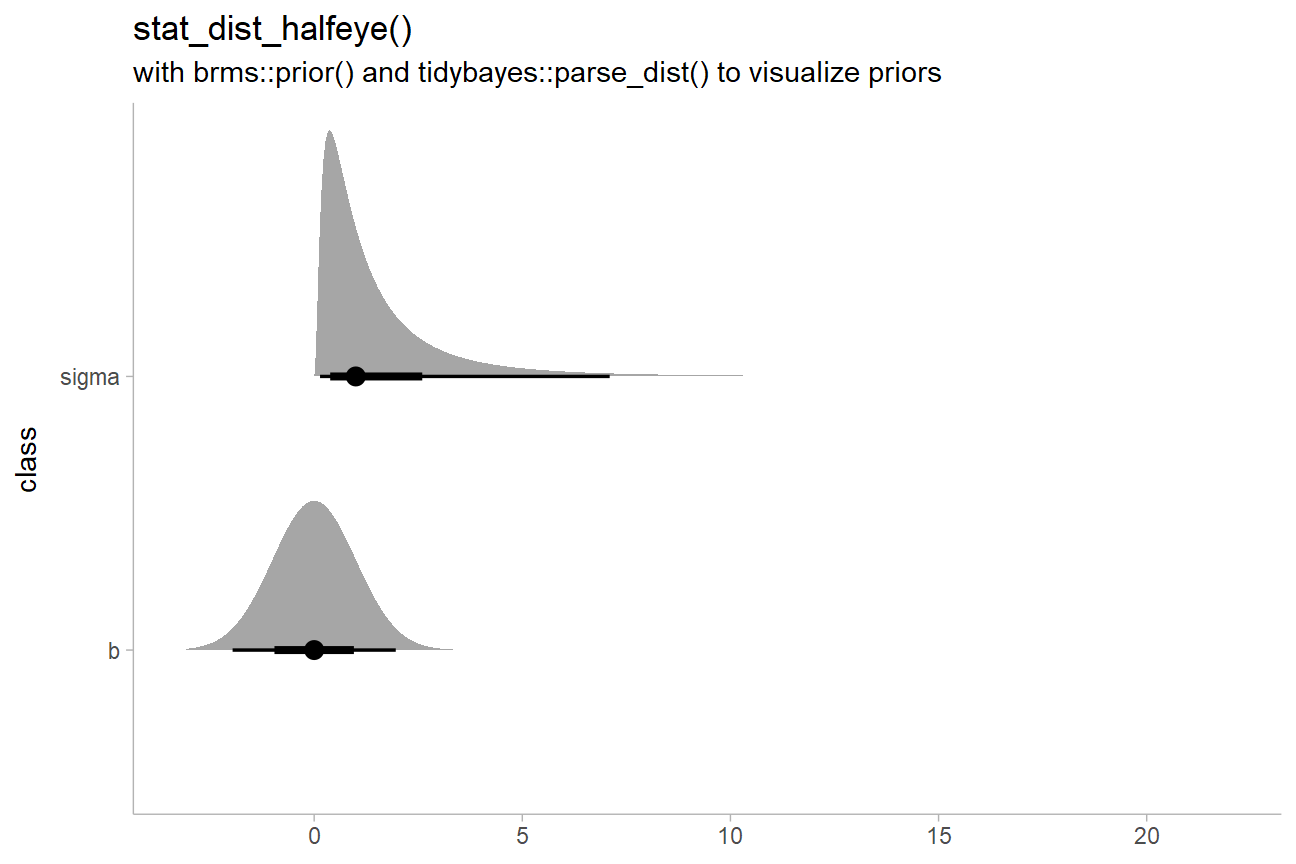
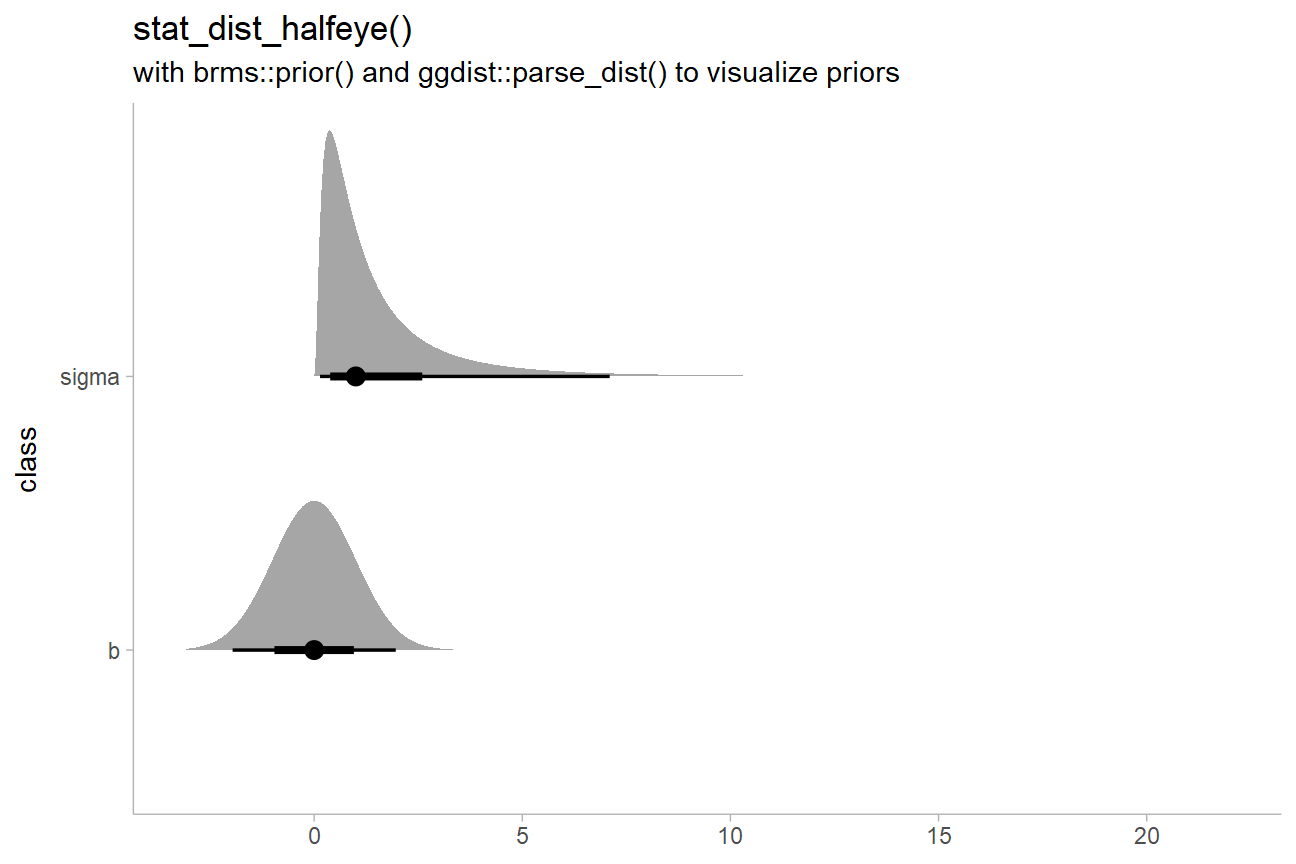
docs rebuild

Changed region(s): [[0.3086, 0.0625, 0.7407, 0.0938]]

diff --git a/docs/reference/point_interval.html b/docs/reference/point_interval.html
@@ -197,8 +197,6 @@ multiple groups in a grouped data frame).</p>
   <span class='no'>.prob</span>
 )
 
-<span class='fu'>point_intervalh</span>(<span class='no'>...</span>)
-
 <span class='fu'>qi</span>(<span class='no'>x</span>, <span class='kw'>.width</span> <span class='kw'>=</span> <span class='fl'>0.95</span>, <span class='no'>.prob</span>, <span class='kw'>na.rm</span> <span class='kw'>=</span> <span class='fl'>FALSE</span>)
 
 <span class='fu'>hdi</span>(<span class='no'>x</span>, <span class='kw'>.width</span> <span class='kw'>=</span> <span class='fl'>0.95</span>, <span class='no'>.prob</span>, <span class='kw'>na.rm</span> <span class='kw'>=</span> <span class='fl'>FALSE</span>)
@@ -209,39 +207,21 @@ multiple groups in a grouped data frame).</p>
 
 <span class='fu'>mean_qi</span>(<span class='no'>.data</span>, <span class='no'>...</span>, <span class='kw'>.width</span> <span class='kw'>=</span> <span class='fl'>0.95</span>)
 
-<span class='fu'>mean_qih</span>(<span class='no'>...</span>)
-
 <span class='fu'>median_qi</span>(<span class='no'>.data</span>, <span class='no'>...</span>, <span class='kw'>.width</span> <span class='kw'>=</span> <span class='fl'>0.95</span>)
-
-<span class='fu'>median_qih</span>(<span class='no'>...</span>)
 
 <span class='fu'>mode_qi</span>(<span class='no'>.data</span>, <span class='no'>...</span>, <span class='kw'>.width</span> <span class='kw'>=</span> <span class='fl'>0.95</span>)
 
-<span class='fu'>mode_qih</span>(<span class='no'>...</span>)
-
 <span class='fu'>mean_hdi</span>(<span class='no'>.data</span>, <span class='no'>...</span>, <span class='kw'>.width</span> <span class='kw'>=</span> <span class='fl'>0.95</span>)
-
-<span class='fu'>mean_hdih</span>(<span class='no'>...</span>)
 
 <span class='fu'>median_hdi</span>(<span class='no'>.data</span>, <span class='no'>...</span>, <span class='kw'>.width</span> <span class='kw'>=</span> <span class='fl'>0.95</span>)
 
-<span class='fu'>median_hdih</span>(<span class='no'>...</span>)
-
 <span class='fu'>mode_hdi</span>(<span class='no'>.data</span>, <span class='no'>...</span>, <span class='kw'>.width</span> <span class='kw'>=</span> <span class='fl'>0.95</span>)
-
-<span class='fu'>mode_hdih</span>(<span class='no'>...</span>)
 
 <span class='fu'>mean_hdci</span>(<span class='no'>.data</span>, <span class='no'>...</span>, <span class='kw'>.width</span> <span class='kw'>=</span> <span class='fl'>0.95</span>)
 
-<span class='fu'>mean_hdcih</span>(<span class='no'>...</span>)
-
 <span class='fu'>median_hdci</span>(<span class='no'>.data</span>, <span class='no'>...</span>, <span class='kw'>.width</span> <span class='kw'>=</span> <span class='fl'>0.95</span>)
 
-<span class='fu'>median_hdcih</span>(<span class='no'>...</span>)
-
-<span class='fu'>mode_hdci</span>(<span class='no'>.data</span>, <span class='no'>...</span>, <span class='kw'>.width</span> <span class='kw'>=</span> <span class='fl'>0.95</span>)
-
-<span class='fu'>mode_hdcih</span>(<span class='no'>...</span>)</pre>
+<span class='fu'>mode_hdci</span>(<span class='no'>.data</span>, <span class='no'>...</span>, <span class='kw'>.width</span> <span class='kw'>=</span> <span class='fl'>0.95</span>)</pre>
 
     <h2 class="hasAnchor" id="arguments"><a class="anchor" href="#arguments"></a>Arguments</h2>
     <table class="ref-arguments">
@@ -333,15 +313,6 @@ corresponding to the interval. This behavior allows <code>point_interval</code>
 and its derived functions (like <code>median_qi</code>, <code>mean_qi</code>, <code>mode_hdi</code>, etc)
 to be easily used to plot intervals in ggplot stats using methods like
 <code><a href='stat_sample_slabinterval.html'>stat_eye()</a></code>, <code><a href='stat_sample_slabinterval.html'>stat_halfeye()</a></code>, or <code><a href='https://ggplot2.tidyverse.org/reference/stat_summary.html'>stat_summary()</a></code>.</p>
-<p>The functions ending in <code>h</code> (e.g., <code>point_intervalh</code>, <code>median_qih</code>)
-behave identically to the function without the h, except that when passed a vector,
-they return a data frame with <code>x</code>/<code>xmin</code>/<code>xmax</code> instead of
-<code>y</code>/<code>ymin</code>/<code>ymax</code>. This allows them to be used as values of the
-<code>fun.data = </code> argument of <code>stat_summaryh</code>. <strong>Note:</strong> these
-functions are not necessary if you use the <code>point_interval</code>
-argument of <code>stat</code>s and <code>geom</code>s in the <code>tidybayes</code> package (e.g.
-<code><a href='stat_pointinterval.html'>stat_pointinterval()</a></code>, <code><a href='stat_sample_slabinterval.html'>stat_halfeye()</a></code>, etc), as
-these automatically adjust the function output to match their required aesthetics.</p>
 <p><code>median_qi</code>, <code>mode_hdi</code>, etc are short forms for
 <code>point_interval(..., .point = median, .interval = qi)</code>, etc.</p>
 <p><code>qi</code> yields the quantile interval (also known as the percentile interval or

diff --git a/docs/reference/index.html b/docs/reference/index.html
@@ -190,7 +190,7 @@
       <tr>
         
         <td>
-          <p><code><a href="point_interval.html">point_interval()</a></code> <code><a href="point_interval.html">point_intervalh()</a></code> <code><a href="point_interval.html">qi()</a></code> <code><a href="point_interval.html">hdi()</a></code> <code><a href="point_interval.html">Mode()</a></code> <code><a href="point_interval.html">hdci()</a></code> <code><a href="point_interval.html">mean_qi()</a></code> <code><a href="point_interval.html">mean_qih()</a></code> <code><a href="point_interval.html">median_qi()</a></code> <code><a href="point_interval.html">median_qih()</a></code> <code><a href="point_interval.html">mode_qi()</a></code> <code><a href="point_interval.html">mode_qih()</a></code> <code><a href="point_interval.html">mean_hdi()</a></code> <code><a href="point_interval.html">mean_hdih()</a></code> <code><a href="point_interval.html">median_hdi()</a></code> <code><a href="point_interval.html">median_hdih()</a></code> <code><a href="point_interval.html">mode_hdi()</a></code> <code><a href="point_interval.html">mode_hdih()</a></code> <code><a href="point_interval.html">mean_hdci()</a></code> <code><a href="point_interval.html">mean_hdcih()</a></code> <code><a href="point_interval.html">median_hdci()</a></code> <code><a href="point_interval.html">median_hdcih()</a></code> <code><a href="point_interval.html">mode_hdci()</a></code> <code><a href="point_interval.html">mode_hdcih()</a></code> </p>
+          <p><code><a href="point_interval.html">point_interval()</a></code> <code><a href="point_interval.html">qi()</a></code> <code><a href="point_interval.html">hdi()</a></code> <code><a href="point_interval.html">Mode()</a></code> <code><a href="point_interval.html">hdci()</a></code> <code><a href="point_interval.html">mean_qi()</a></code> <code><a href="point_interval.html">median_qi()</a></code> <code><a href="point_interval.html">mode_qi()</a></code> <code><a href="point_interval.html">mean_hdi()</a></code> <code><a href="point_interval.html">median_hdi()</a></code> <code><a href="point_interval.html">mode_hdi()</a></code> <code><a href="point_interval.html">mean_hdci()</a></code> <code><a href="point_interval.html">median_hdci()</a></code> <code><a href="point_interval.html">mode_hdci()</a></code> </p>
         </td>
         <td><p>Point and interval summaries for tidy data frames of draws from distributions</p></td>
       </tr>
@@ -333,7 +333,7 @@
       <tr>
         <th colspan="2">
           <h2 id="section-ggplot-scales" class="hasAnchor"><a href="#section-ggplot-scales" class="anchor"></a>GGplot scales</h2>
-          <p class="section-desc"><p>Scales for custom aesthetics used by tidybayes geoms and stats</p></p>
+          <p class="section-desc"><p>Scales for custom aesthetics used by ggdist geoms and stats</p></p>
         </th>
       </tr>
       
@@ -363,9 +363,9 @@
       <tr>
         
         <td>
-          <p><code><a href="theme_ggdist.html">theme_ggdist()</a></code> <code><a href="theme_ggdist.html">facet_title_left_horizontal()</a></code> <code><a href="theme_ggdist.html">facet_title_right_horizontal()</a></code> <code><a href="theme_ggdist.html">axis_titles_bottom_left()</a></code> </p>
+          <p><code><a href="theme_ggdist.html">theme_ggdist()</a></code> <code><a href="theme_ggdist.html">theme_tidybayes()</a></code> <code><a href="theme_ggdist.html">facet_title_left_horizontal()</a></code> <code><a href="theme_ggdist.html">facet_title_right_horizontal()</a></code> <code><a href="theme_ggdist.html">axis_titles_bottom_left()</a></code> </p>
         </td>
-        <td><p>Simple, light ggplot2 theme for ggdist</p></td>
+        <td><p>Simple, light ggplot2 theme for ggdist and tidybayes</p></td>
       </tr>
     </tbody><tbody>
       <tr>

diff --git a/docs/news/index.html b/docs/news/index.html
@@ -156,7 +156,7 @@
 <li>Initial split from tidybayes: ggdist now contains all stats/geoms from tidybayes (except deprecated ones), all support functions for stats/geoms (such as <code><a href="../reference/point_interval.html">point_interval()</a></code>), <code><a href="../articles/slabinterval.html">vignette("slabinterval")</a></code>, and <code><a href="../articles/freq-uncertainty-vis.html">vignette("freq-uncertainty-vis")</a></code>. Tidybayes will retain all other functions, and will re-export all <code>ggdist</code> functions for now.</li>
 <li>All stats and geoms now support automatic orientation determination. Thus, all <code>h</code>-suffix geoms are now deprecated. Those geoms have been left in <code>tidybayes</code> and give a deprecation warning when used; they cannot be used from <code>ggdist</code> directly.</li>
 <li>
-<code><a href="../reference/geom_interval.html">geom_interval()</a></code>, <code><a href="../reference/geom_pointinterval.html">geom_pointinterval()</a></code>, and <code><a href="../reference/geom_lineribbon.html">geom_lineribbon()</a></code> no longer automatically set the <code>ymin</code> and <code>ymax</code> aesthetics if <code>.lower</code> or <code>.upper</code> are present in the data. This allows them to work better with automatic orientation detection (and was a bad feature to have existed in the first place anyway). The deprecated <code><a href="http://mjskay.github.io/tidybayes/reference/geom_interval.html">tidybayes::geom_intervalh()</a></code> and <code><a href="http://mjskay.github.io/tidybayes/reference/geom_pointinterval.html">tidybayes::geom_pointintervalh()</a></code> still automatically set those aesthetics, since they are deprecated anyway (so supporting the old behavior is fine in these functions).</li>
+<code><a href="../reference/geom_interval.html">geom_interval()</a></code>, <code><a href="../reference/geom_pointinterval.html">geom_pointinterval()</a></code>, and <code><a href="../reference/geom_lineribbon.html">geom_lineribbon()</a></code> no longer automatically set the <code>ymin</code> and <code>ymax</code> aesthetics if <code>.lower</code> or <code>.upper</code> are present in the data. This allows them to work better with automatic orientation detection (and was a bad feature to have existed in the first place anyway). The deprecated <code><a href="http://mjskay.github.io/tidybayes/reference/tidybayes-deprecated.html">tidybayes::geom_intervalh()</a></code> and <code><a href="http://mjskay.github.io/tidybayes/reference/tidybayes-deprecated.html">tidybayes::geom_pointintervalh()</a></code> still automatically set those aesthetics, since they are deprecated anyway (so supporting the old behavior is fine in these functions).</li>
 <li>
 <code><a href="../reference/geom_lineribbon.html">geom_lineribbon()</a></code>/<code><a href="../reference/stat_lineribbon.html">stat_lineribbon()</a></code> now supports a <code>step</code> argument for creating stepped lineribbons. H/T to Solomon Kurz for the suggestion.</li>
 <li>

diff --git a/docs/index.html b/docs/index.html
@@ -107,7 +107,7 @@
 <a href="#ggdist-visualizations-of-distributions-and-uncertainty" class="anchor"></a>ggdist: Visualizations of distributions and uncertainty</h1></div>
 
 <p><img src="reference/figures/preview.png" alt="Preview of ggdist plots"></p>
-<p><code>ggdist</code> is an R package that provides a flexible set of <code>ggplot2</code> geoms and stats designed especially for visualizing distributions and uncertainty. It is designed for both frequentist and Bayesian uncertainty visualization, taking the view that uncertainty visualization can be unified through the perspective of distribution visualization: for frequentist models, one visualizes confidence distributions or bootstrap distributions (see <code><a href="articles/freq-uncertainty-vis.html">vignette("freq-uncertainty-vis")</a></code>); for Bayesian models, one visualizes probability distributions (see <code><a href="http://mjskay.github.io/tidybayes/articles/tidybayes.html">vignette("tidybayes", package = "tidybayes")</a></code>).</p>
+<p><a href="http://mjskay.github.io/ggdist/">ggdist</a> is an R package that provides a flexible set of <code>ggplot2</code> geoms and stats designed especially for visualizing distributions and uncertainty. It is designed for both frequentist and Bayesian uncertainty visualization, taking the view that uncertainty visualization can be unified through the perspective of distribution visualization: for frequentist models, one visualizes confidence distributions or bootstrap distributions (see <code><a href="articles/freq-uncertainty-vis.html">vignette("freq-uncertainty-vis")</a></code>); for Bayesian models, one visualizes probability distributions (see the <a href="http://mjskay.github.io/tidybayes/">tidybayes</a> package, which builds on top of <code>ggdist</code>).</p>
 <p>The <code><a href="reference/geom_slabinterval.html">geom_slabinterval()</a></code> / <code><a href="reference/stat_slabinterval.html">stat_slabinterval()</a></code> / <code><a href="reference/stat_dist_slabinterval.html">stat_dist_slabinterval()</a></code> family (see <code><a href="articles/slabinterval.html">vignette("slabinterval")</a></code>) includes point summaries and intervals, eye plots, half-eye plots, CCDF bar plots, gradient plots, dotplots, and histograms:</p>
 <p><img src="reference/figures/slabinterval_family.png" alt="The slabinterval family of geoms and stats"></p>
 <p>The <code><a href="reference/geom_lineribbon.html">geom_lineribbon()</a></code> / <code><a href="reference/stat_lineribbon.html">stat_lineribbon()</a></code> / <code><a href="reference/stat_lineribbon.html">stat_dist_lineribbon()</a></code> family makes it easy to visualize fit lines with an arbitrary number of uncertainty bands:</p>

diff --git a/docs/reference/theme_ggdist.html b/docs/reference/theme_ggdist.html
@@ -6,7 +6,7 @@
 <meta http-equiv="X-UA-Compatible" content="IE=edge">
 <meta name="viewport" content="width=device-width, initial-scale=1.0">
 
-<title>Simple, light ggplot2 theme for ggdist — theme_ggdist • ggdist</title>
+<title>Simple, light ggplot2 theme for ggdist and tidybayes — theme_ggdist • ggdist</title>
 
 <!-- favicons -->
 <link rel="icon" type="image/png" sizes="16x16" href="../favicon-16x16.png">
@@ -48,7 +48,7 @@
   <link href="../extra.css" rel="stylesheet">
   
 
-<meta property="og:title" content="Simple, light ggplot2 theme for ggdist — theme_ggdist" />
+<meta property="og:title" content="Simple, light ggplot2 theme for ggdist and tidybayes — theme_ggdist" />
 <meta property="og:description" content="A simple, relatively minimalist ggplot2 theme, and some helper functions to go with it." />
 <meta property="og:image" content="http://mjskay.github.io/ggdist/logo.svg" />
 
@@ -146,7 +146,7 @@
 <div class="row">
   <div class="col-md-9 contents">
     <div class="page-header">
-    <h1>Simple, light ggplot2 theme for ggdist</h1>
+    <h1>Simple, light ggplot2 theme for ggdist and tidybayes</h1>
     <small class="dont-index">Source: <a href='https://github.com/mjskay/ggdist/blob/master/R/theme_ggdist.R'><code>R/theme_ggdist.R</code></a></small>
     <div class="hidden name"><code>theme_ggdist.Rd</code></div>
     </div>
@@ -156,6 +156,8 @@
     </div>
 
     <pre class="usage"><span class='fu'>theme_ggdist</span>()
+
+<span class='fu'>theme_tidybayes</span>()
 
 <span class='fu'>facet_title_left_horizontal</span>()
 
@@ -170,6 +172,7 @@
 <p>This is a relatively minimalist ggplot2 theme, intended to be used for making publication-ready plots.
 It is currently based on <code><a href='https://ggplot2.tidyverse.org/reference/ggtheme.html'>ggplot2::theme_light()</a></code>.</p>
 <p>A word of warning: this theme may (and very likely will) change in the future as I tweak it to my taste.</p>
+<p><code>theme_ggdist()</code> and <code>theme_tidybayes()</code> are aliases.</p>
     <h2 class="hasAnchor" id="see-also"><a class="anchor" href="#see-also"></a>See also</h2>
 
     <div class='dont-index'><p><code><a href='https://ggplot2.tidyverse.org/reference/theme.html'>ggplot2::theme()</a></code>, <code><a href='https://ggplot2.tidyverse.org/reference/theme_get.html'>ggplot2::theme_set()</a></code></p></div>

diff --git a/docs/reference/ggdist-ggproto.html b/docs/reference/ggdist-ggproto.html
@@ -6,7 +6,7 @@
 <meta http-equiv="X-UA-Compatible" content="IE=edge">
 <meta name="viewport" content="width=device-width, initial-scale=1.0">
 
-<title>Base ggproto classes for tidybayes — ggdist-ggproto • ggdist</title>
+<title>Base ggproto classes for ggdist — ggdist-ggproto • ggdist</title>
 
 <!-- favicons -->
 <link rel="icon" type="image/png" sizes="16x16" href="../favicon-16x16.png">
@@ -48,8 +48,8 @@
   <link href="../extra.css" rel="stylesheet">
   
 
-<meta property="og:title" content="Base ggproto classes for tidybayes — ggdist-ggproto" />
-<meta property="og:description" content="Base ggproto classes for tidybayes" />
+<meta property="og:title" content="Base ggproto classes for ggdist — ggdist-ggproto" />
+<meta property="og:description" content="Base ggproto classes for ggdist" />
 <meta property="og:image" content="http://mjskay.github.io/ggdist/logo.svg" />
 
 
@@ -146,13 +146,13 @@
 <div class="row">
   <div class="col-md-9 contents">
     <div class="page-header">
-    <h1>Base ggproto classes for tidybayes</h1>
-    <small class="dont-index">Source: <a href='https://github.com/mjskay/ggdist/blob/master/R/geom.R'><code>R/geom.R</code></a>, <a href='https://github.com/mjskay/ggdist/blob/master/R/geom_interval.R'><code>R/geom_interval.R</code></a>, <a href='https://github.com/mjskay/ggdist/blob/master/R/geom_lineribbon.R'><code>R/geom_lineribbon.R</code></a>, and 1 more</small>
+    <h1>Base ggproto classes for ggdist</h1>
+    <small class="dont-index">Source: <a href='https://github.com/mjskay/ggdist/blob/master/R/geom.R'><code>R/geom.R</code></a>, <a href='https://github.com/mjskay/ggdist/blob/master/R/geom_slabinterval.R'><code>R/geom_slabinterval.R</code></a>, <a href='https://github.com/mjskay/ggdist/blob/master/R/geom_dotsinterval.R'><code>R/geom_dotsinterval.R</code></a>, and 8 more</small>
     <div class="hidden name"><code>ggdist-ggproto.Rd</code></div>
     </div>
 
     <div class="ref-description">
-    <p>Base ggproto classes for tidybayes</p>
+    <p>Base ggproto classes for ggdist</p>
     </div>
 
 

diff --git a/docs/articles/freq-uncertainty-vis.html b/docs/articles/freq-uncertainty-vis.html
@@ -102,7 +102,7 @@
       <h1 data-toc-skip>Frequentist uncertainty visualization</h1>
                         <h4 class="author">Matthew Kay</h4>
             
-            <h4 class="date">2020-06-05</h4>
+            <h4 class="date">2020-06-06</h4>
       
       <small class="dont-index">Source: <a href="https://github.com/mjskay/ggdist/blob/master/vignettes/freq-uncertainty-vis.Rmd"><code>vignettes/freq-uncertainty-vis.Rmd</code></a></small>
       <div class="hidden name"><code>freq-uncertainty-vis.Rmd</code></div>
@@ -142,7 +142,7 @@ img {
 <div id="point-estimates" class="section level2">
 <h2 class="hasAnchor">
 <a href="#point-estimates" class="anchor"></a>Point estimates</h2>
-<p>We’ll start with an ordinary least squares (OLS) linear regression analysis of the simple <code>ABC</code> dataset used in <code><a href="http://mjskay.github.io/tidybayes/articles/tidybayes.html">vignette("tidybayes", package = "tidybayes")</a></code>:</p>
+<p>We’ll start with an ordinary least squares (OLS) linear regression analysis of this simple dataset:</p>
 <div class="sourceCode" id="cb2"><html><body><pre class="r"><span class="fu"><a href="https://rdrr.io/r/base/Random.html">set.seed</a></span>(<span class="fl">5</span>)
 <span class="no">n</span> <span class="kw">=</span> <span class="fl">10</span>
 <span class="no">n_condition</span> <span class="kw">=</span> <span class="fl">5</span>

diff --git a/docs/articles/slabinterval.html b/docs/articles/slabinterval.html
@@ -102,7 +102,7 @@
       <h1 data-toc-skip>Slab + interval stats and geoms</h1>
                         <h4 class="author">Matthew Kay</h4>
             
-            <h4 class="date">2020-06-05</h4>
+            <h4 class="date">2020-06-06</h4>
       
       <small class="dont-index">Source: <a href="https://github.com/mjskay/ggdist/blob/master/vignettes/slabinterval.Rmd"><code>vignettes/slabinterval.Rmd</code></a></small>
       <div class="hidden name"><code>slabinterval.Rmd</code></div>
@@ -303,7 +303,7 @@ img {
   <span class="fu"><a href="../reference/stat_dist_slabinterval.html">stat_dist_halfeye</a></span>() +
   <span class="fu"><a href="https://ggplot2.tidyverse.org/reference/labs.html">labs</a></span>(
     <span class="kw">title</span> <span class="kw">=</span> <span class="st">"stat_dist_halfeye()"</span>,
-    <span class="kw">subtitle</span> <span class="kw">=</span> <span class="st">"with brms::prior() and tidybayes::parse_dist() to visualize priors"</span>,
+    <span class="kw">subtitle</span> <span class="kw">=</span> <span class="st">"with brms::prior() and ggdist::parse_dist() to visualize priors"</span>,
     <span class="kw">x</span> <span class="kw">=</span> <span class="kw">NULL</span>
   )</pre></body></html></div>
 <p><img src="slabinterval_files/figure-html/prior_dist_halfeyeh-1.png" width="648"></p>

diff --git a/README.md b/README.md
@@ -12,16 +12,17 @@ status](http://www.r-pkg.org/badges/version/ggdist)](https://cran.r-project.org/
 
 ![Preview of ggdist plots](man/figures/preview.png)
 
-`ggdist` is an R package that provides a flexible set of `ggplot2` geoms
-and stats designed especially for visualizing distributions and
-uncertainty. It is designed for both frequentist and Bayesian
-uncertainty visualization, taking the view that uncertainty
-visualization can be unified through the perspective of distribution
-visualization: for frequentist models, one visualizes confidence
-distributions or bootstrap distributions (see
+[ggdist](http://mjskay.github.io/ggdist/) is an R package that provides
+a flexible set of `ggplot2` geoms and stats designed especially for
+visualizing distributions and uncertainty. It is designed for both
+frequentist and Bayesian uncertainty visualization, taking the view that
+uncertainty visualization can be unified through the perspective of
+distribution visualization: for frequentist models, one visualizes
+confidence distributions or bootstrap distributions (see
 `vignette("freq-uncertainty-vis")`); for Bayesian models, one visualizes
-probability distributions (see `vignette("tidybayes", package =
-"tidybayes")`).
+probability distributions (see the
+[tidybayes](http://mjskay.github.io/tidybayes/) package, which builds on
+top of `ggdist`).
 
 The `geom_slabinterval()` / `stat_slabinterval()` /
 `stat_dist_slabinterval()` family (see `vignette("slabinterval")`)
